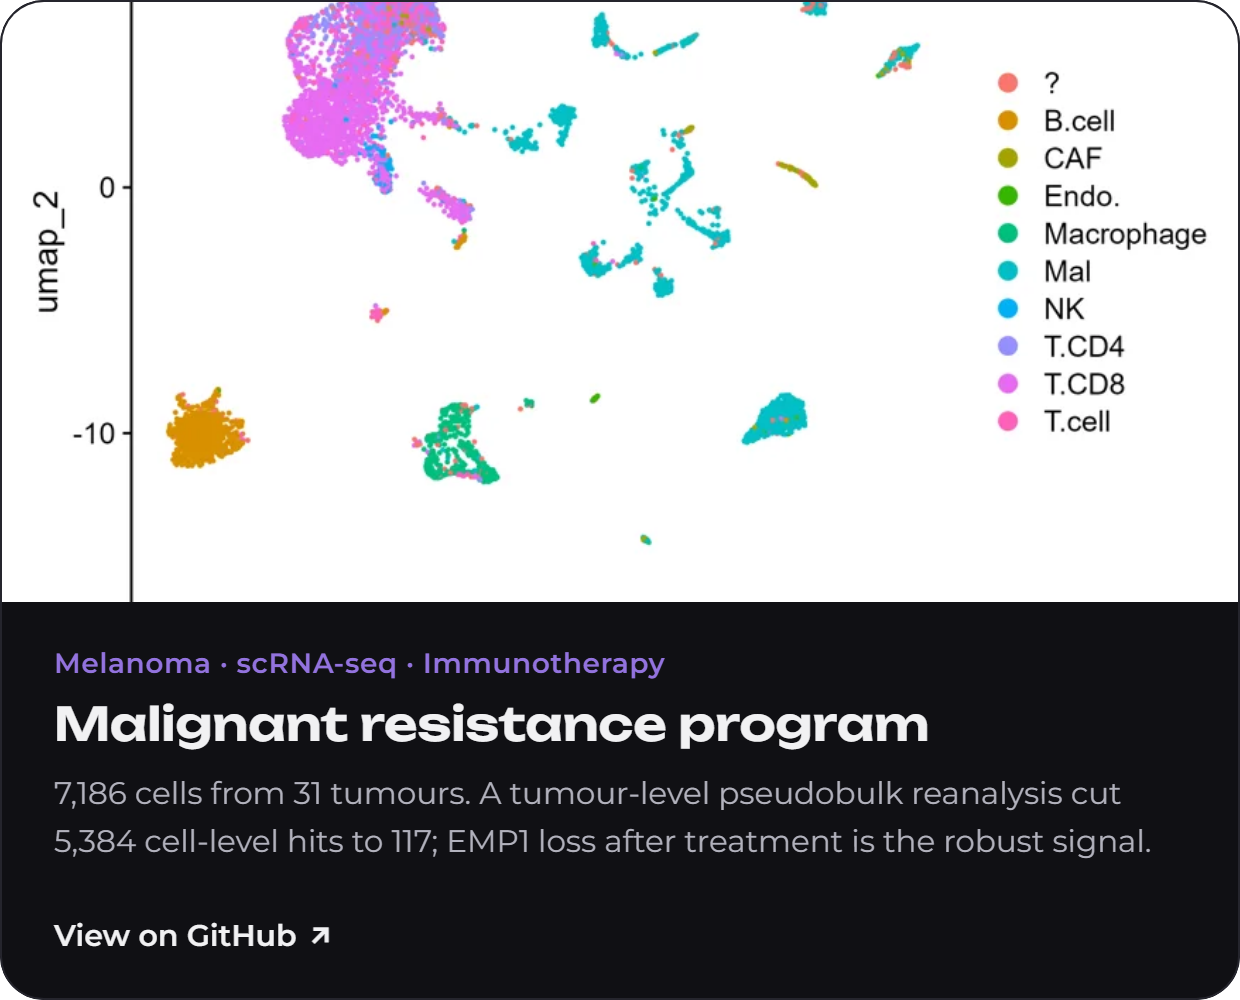
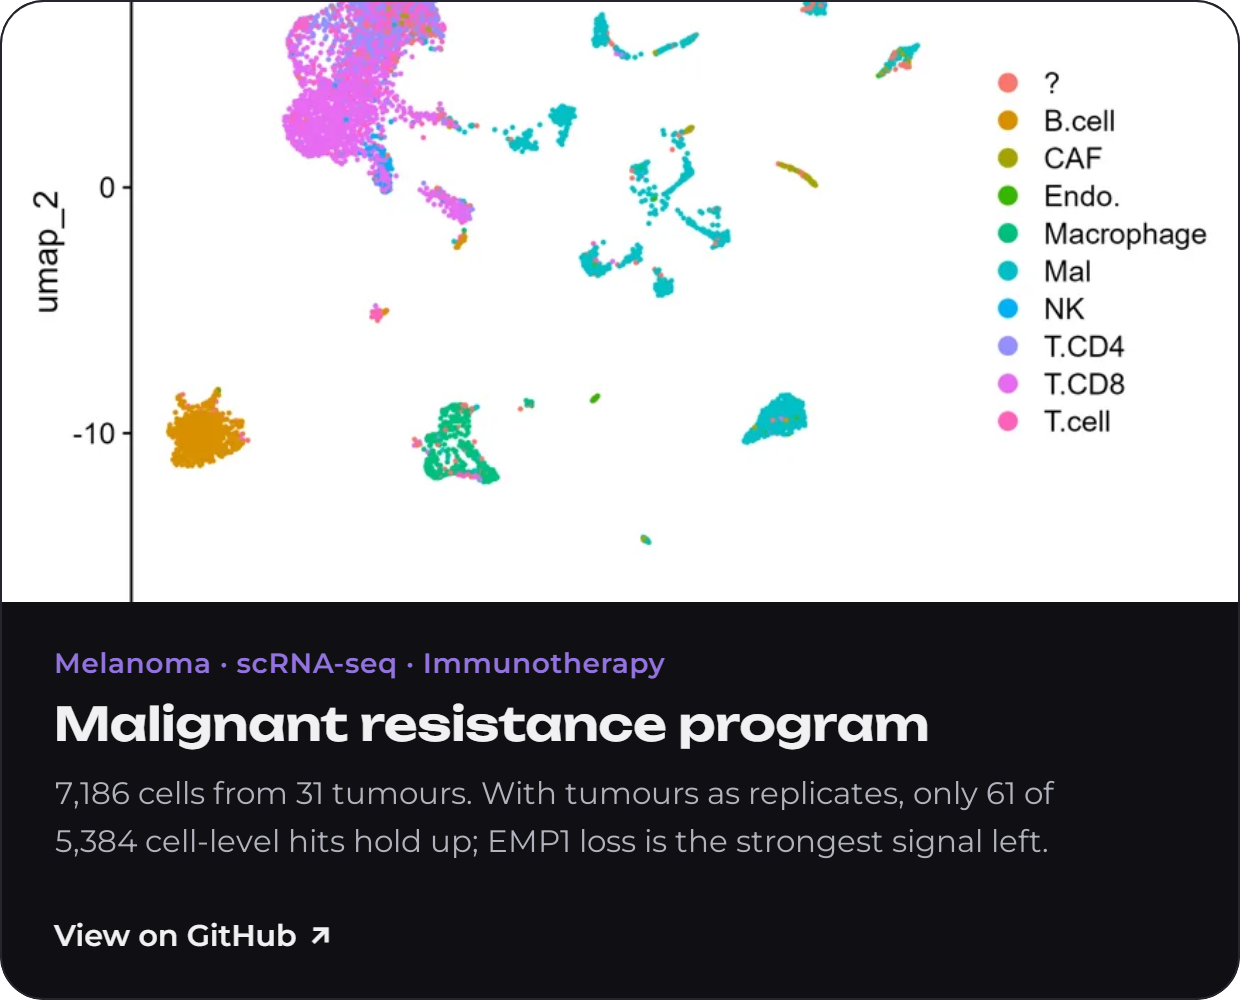
Update selected projects

Changed region(s): [[0.0306, 0.775, 0.9194, 0.868], [0.0613, 0.837, 0.1532, 0.868]]

diff --git a/README.md b/README.md
@@ -7,18 +7,15 @@
 <img src="assets/title-projects.png" width="100%" alt="Selected projects">
 
 <p align="center">
-  <a href="https://github.com/thaisdolzany/BRIDGE-TF-protocol"><img src="assets/card-bridge-tf.png" width="49%" alt="BRIDGE-TF: conserved transcription-factor modules behind malignant cell-state plasticity in breast cancer. Pre-registered protocol."></a>
+  <a href="https://github.com/thaisdolzany/computational-pharmacology-portfolio/tree/main/melanoma-scrnaseq-resistance"><img src="assets/card-melanoma-resistance.png" width="49%" alt="Malignant resistance program in melanoma: pseudobulk reanalysis of 31 tumours; only 61 of 5,384 cell-level hits hold up, and EMP1 loss after treatment is the strongest signal."></a>
   <a href="https://github.com/thaisdolzany/computational-pharmacology-portfolio/tree/main/solubility-scaffold-shift"><img src="assets/card-solubility.png" width="49%" alt="Solubility under scaffold shift: XGBoost RMSE 0.85 on a random split, 1.23 log units on unseen scaffolds, 9,145 molecules."></a>
 </p>
 <p align="center">
-  <a href="https://github.com/thaisdolzany/computational-pharmacology-portfolio/tree/main/melanoma-scrnaseq-resistance"><img src="assets/card-melanoma-resistance.png" width="49%" alt="Malignant resistance program in melanoma: pseudobulk reanalysis of 31 tumours; EMP1 loss after treatment is the robust signal."></a>
   <a href="https://github.com/thaisdolzany/computational-pharmacology-portfolio/tree/main/oncology-trials-brazil"><img src="assets/card-trials-brazil.png" width="49%" alt="Oncology trials in Brazil: 1,908 trials and 11,387 Brazilian sites from ClinicalTrials.gov."></a>
-</p>
-<p align="center">
   <a href="https://github.com/thaisdolzany/scanpy-lowmem"><img src="assets/card-scanpy-lowmem.png" width="49%" alt="scanpy-lowmem: integrate about 486k single cells on a 16 GB laptop, with tests and a memory benchmark."></a>
-  <a href="https://github.com/thaisdolzany/omics-fetch"><img src="assets/card-omics-fetch.png" width="49%" alt="omics-fetch: download scripts for GEO, cBioPortal and GDC cancer data, with size checks and tests."></a>
 </p>
 <p align="center">
+  <a href="https://github.com/thaisdolzany/omics-fetch"><img src="assets/card-omics-fetch.png" width="49%" alt="omics-fetch: download scripts for GEO, cBioPortal and GDC cancer data, with size checks and tests."></a>
   <a href="https://thaisdolzany.github.io/calculadora-plaqueamento/"><img src="assets/card-cell-seeding.png" width="49%" alt="Cell seeding calculator: bench tool for plates and flasks, with tested formulas."></a>
 </p>
 
